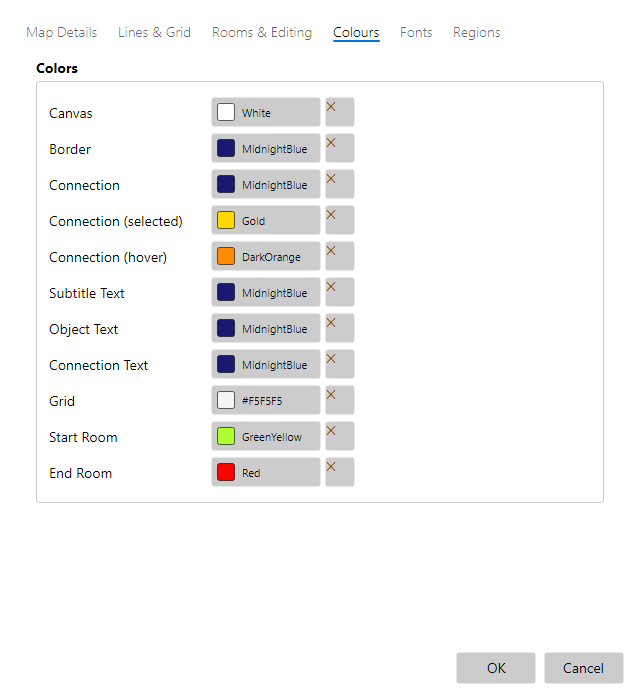
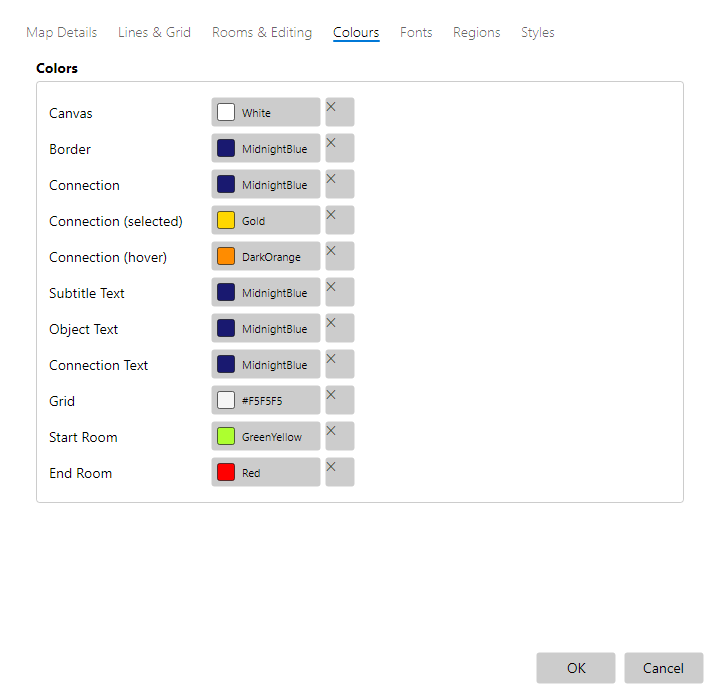
Guide pictures: draw afresh before saving, and redrawn (#82)
* Guide pictures: draw afresh before saving

rooms-and-joins and quick-map came out at the map's origin and 100% when
the other captures ran first: the frame saved was from before the view was
set. Save now asks everything to draw and ticks the render clock first.

Claude-Session: https://claude.ai/code/session_01M71nqtdkg44mDABgx1QWjM

* Guide pictures redrawn

The Map Settings tabs now include Styles; the main window shows the new
selection glow; rooms-and-joins was off-centre.

Claude-Session: https://claude.ai/code/session_01M71nqtdkg44mDABgx1QWjM

---------

diff --git a/src/Trizbort.Avalonia.Tests/DocsCaptureTests.cs b/src/Trizbort.Avalonia.Tests/DocsCaptureTests.cs
@@ -5,6 +5,7 @@ using Avalonia.Headless;
 using Avalonia.Headless.NUnit;
 using Avalonia.Media.Imaging;
 using Avalonia.Threading;
+using Avalonia.VisualTree;
 using Avalonia.Themes.Fluent;
 using Microsoft.Extensions.DependencyInjection;
 using NUnit.Framework;
@@ -251,6 +252,15 @@ public class DocsCaptureTests
     private static void Save(Window window, string path)
     {
         Settle(window);
+        // Draw afresh. The last frame drawn can be from before the view was set (a picture came out at the map's
+        // origin, 100%, depending on which captures ran before it), so ask everything to draw and tick the clock.
+        foreach (var visual in window.GetVisualDescendants()) visual.InvalidateVisual();
+        for (var i = 0; i < 3; i++)
+        {
+            global::Avalonia.Headless.AvaloniaHeadlessPlatform.ForceRenderTimerTick();
+            Dispatcher.UIThread.RunJobs();
+        }
+
         using var frame = window.CaptureRenderedFrame();
         frame?.Save(path);
     }
